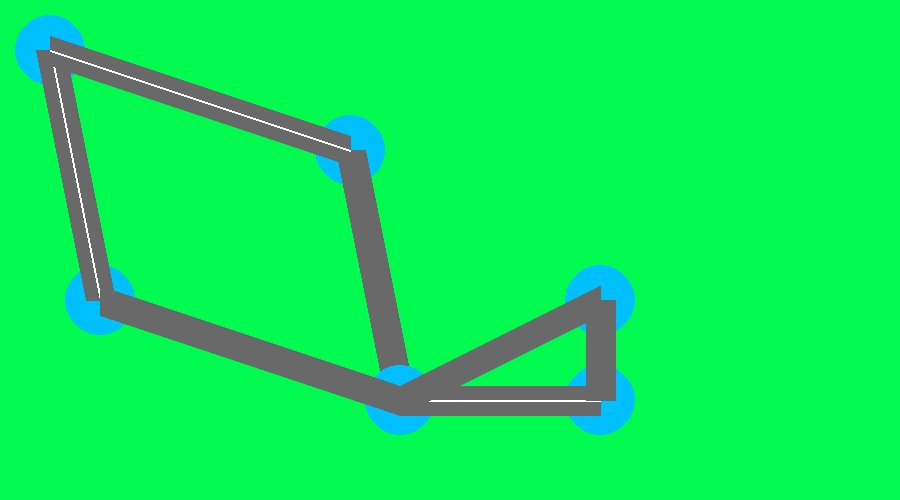
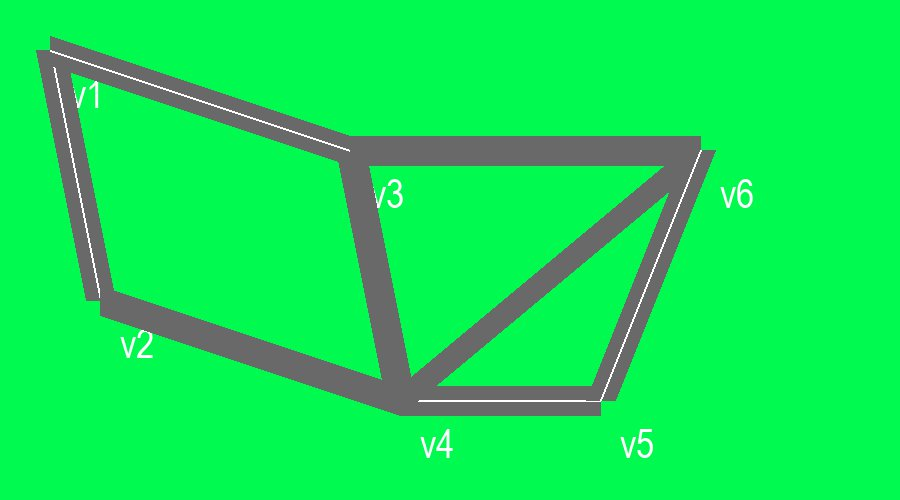
Added intersection names

diff --git a/map.py b/map.py
@@ -15,29 +15,36 @@ DIMGRAY = (105, 105, 105)
 WIN = pygame.display.set_mode((WIDTH, HEIGHT))
 pygame.display.set_caption("Graph")
 
+pygame.init()
+FONT = pygame.font.SysFont('arial', 40)
+
 class intersection(pygame.sprite.Sprite):
   def addOutgoing(self, car, goingTo):
     self.outgoing.append((car, goingTo))
   def removeFromOutgoing(self, car, goingTo):
     self.outgoing.remove((car, goingTo))
 
-  def __init__(self, position, neighbors, weights):
+  def __init__(self, name, position, neighbors, weights):
+    self.name = name
     self.position = position
     self.neighbors = neighbors
     self.weights = weights
+    self.font = FONT
  #   self.outgoing = [][2] #car, going to
   def __getitem__ (self, key):
-    return getattr(self,key)
-    
+    return getattr(self, key)
+  #def add_text_to_map(self):
+
 
 map = [
-  intersection((100,100), [1,2], [2,3]),
-  intersection((100, 400),[0],[1, 3]),
-  intersection((300, 100),[3, 0, 5],[1, 3]),
-  intersection((300, 400),[1, 4],[1]),
-  intersection((600, 400),[3, 5],[1]),
-  intersection((600, 100),[3, 4],[1])
+  intersection("v1", (50, 50), [1,2], [2,3]),
+  intersection("v2", (100, 300),[0],[1, 3]),
+  intersection("v3", (350, 150),[3, 0, 5],[1, 3]),
+  intersection("v4", (400, 400),[1, 4],[1]),
+  intersection("v5", (600, 400),[3, 5],[1]),
+  intersection("v6", (700, 150),[3, 4],[1])
 ]
+
 
 
 def draw_window():
@@ -45,8 +52,10 @@ def draw_window():
   pygame.display.flip()
   visited = []
   for i in range(len(map)):
+    #font = pygame.font.sysFont(map["name"], 30)
     # Get node position and draw
     x, y = map[i]["position"]
+    WIN.blit(map[i].font.render(map[i].name, True, (WHITE)), (x+20, y+20))
     # Draw Nodes
     # pygame.draw.circle(WIN, DEEPBLUE,
     #                   (x, y), RADIUS)
@@ -80,6 +89,11 @@ def draw_window():
     #print(f"i {i}: X is {x} and Y is {y}\n")
 
 def main():
+
+
+
+
+  #pygame.init()
   clock = pygame.time.Clock()
   run = True
 
@@ -89,6 +103,7 @@ def main():
     clock.tick(FPS)
     for event in pygame.event.get():
       if event.type == pygame.QUIT:
+        pygame.quit()
         run = False
 
 
